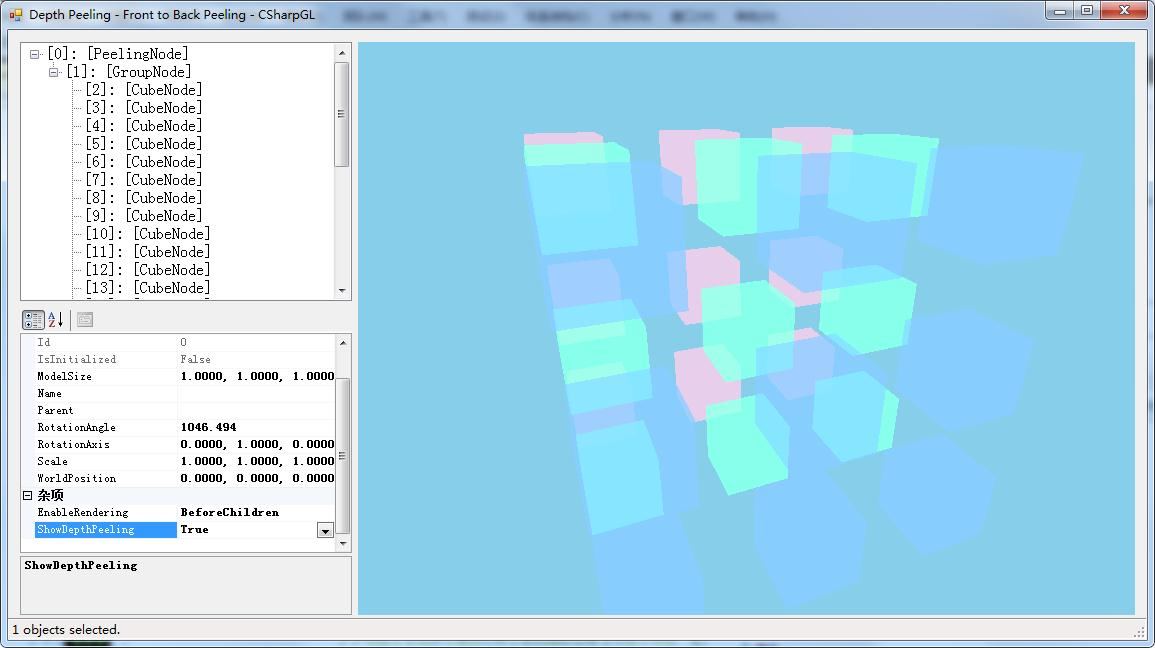
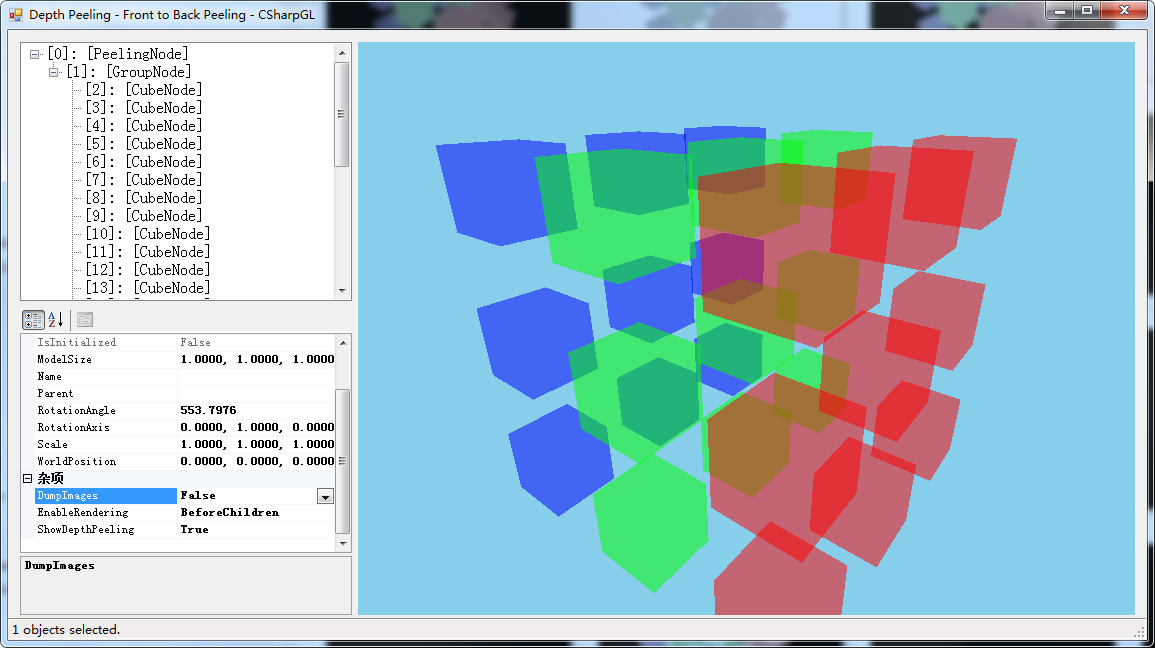
update readme.

diff --git a/Demos/FrontToBackPeeling/PeelingNode.cs b/Demos/FrontToBackPeeling/PeelingNode.cs
@@ -12,8 +12,9 @@ namespace FrontToBackPeeling
         private int height;
         private GroupNode cubeNodeGroup;
         private QuadNode fullscreenQuad;
-        private DepthMaskSwitch depthMask = new DepthMaskSwitch(false);
-        private const int NUM_PASSES = 6;
+        private DepthMaskSwitch depthMask = new DepthMaskSwitch(writable: false);
+        private DepthTestSwitch depthTest = new DepthTestSwitch(enableCapacity: false);
+        private const int NUM_PASSES = 5;
         private bool bUseOQ = false;
 
         public bool ShowDepthPeeling { get; set; }
@@ -64,10 +65,14 @@ namespace FrontToBackPeeling
             glBlendFuncSeparate = GL.Instance.GetDelegateFor("glBlendFuncSeparate", GLDelegates.typeof_void_uint_uint_uint_uint) as GLDelegates.void_uint_uint_uint_uint;
         }
 
-        private BlendSwitch blend = new BlendSwitch(BlendEquationMode.Add, BlendSrcFactor.SrcAlpha, BlendDestFactor.OneMinusSrcAlpha, BlendSrcFactor.One, BlendDestFactor.One);
+        private BlendSwitch blend = new BlendSwitch(BlendEquationMode.Add, BlendSrcFactor.DstAlpha, BlendDestFactor.One, BlendSrcFactor.Zero, BlendDestFactor.OneMinusSrcAlpha);
+        //private BlendSwitch blend = new BlendSwitch(BlendEquationMode.Add, BlendSrcFactor.SrcAlpha, BlendDestFactor.OneMinusSrcAlpha, BlendSrcFactor.One, BlendDestFactor.One);
 
         private bool dumpImages = true;
 
+        /// <summary>
+        /// Dump images once.
+        /// </summary>
         public bool DumpImages
         {
             get { return dumpImages; }
@@ -92,6 +97,8 @@ namespace FrontToBackPeeling
 
             if (this.ShowDepthPeeling)
             {
+                //var clearColor = new float[4];
+                //GL.Instance.GetFloatv((uint)GetTarget.ColorClearValue, clearColor);
                 {
                     //glBlendEquation(GL.GL_FUNC_ADD);
                     //glBlendFuncSeparate(GL.GL_SRC_ALPHA, GL.GL_ONE_MINUS_SRC_ALPHA, GL.GL_ONE, GL.GL_ONE);
@@ -119,11 +126,11 @@ namespace FrontToBackPeeling
                     // peel.
                     {
                         this.resources.FBOs[currId].Bind();
-                        GL.Instance.ClearColor(0, 0, 0, 1);
+                        GL.Instance.ClearColor(0, 0, 0, 0);
                         GL.Instance.Clear(GL.GL_COLOR_BUFFER_BIT | GL.GL_DEPTH_BUFFER_BIT);
-                        this.depthMask.On();
+                        //this.depthMask.On();
                         //GL.Instance.Enable(GL.GL_BLEND);
-                        this.blend.On();
+                        //this.blend.On();
                         if (bUseOQ)
                         {
                             this.query.BeginQuery(QueryTarget.SamplesPassed);
@@ -134,8 +141,8 @@ namespace FrontToBackPeeling
                             this.query.EndQuery(QueryTarget.SamplesPassed);
                         }
                         //GL.Instance.Disable(GL.GL_BLEND);
-                        this.blend.Off();
-                        this.depthMask.Off();
+                        //this.blend.Off();
+                        //this.depthMask.Off();
                         this.resources.FBOs[currId].Unbind();
                         if (this.DumpImages)
                         {
@@ -145,7 +152,11 @@ namespace FrontToBackPeeling
                     // blend.
                     {
                         this.resources.blenderFBO.Bind();
+                        this.depthTest.On();
+                        this.blend.On();
                         this.DrawFullScreenQuad(arg, QuadNode.RenderMode.Blend, this.resources.colorTextures[currId]);
+                        this.blend.Off();
+                        this.depthTest.Off();
                         this.resources.blenderFBO.Unbind();
                         if (this.DumpImages)
                         {
@@ -160,6 +171,7 @@ namespace FrontToBackPeeling
                     }
                 }
                 // final.
+                //GL.Instance.ClearColor(clearColor[0], clearColor[1], clearColor[2], clearColor[3]);
                 this.DrawFullScreenQuad(arg, QuadNode.RenderMode.Final, this.resources.blenderColorTexture);
                 if (this.DumpImages)
                 {

diff --git a/Demos/FrontToBackPeeling/FormMain.cs b/Demos/FrontToBackPeeling/FormMain.cs
@@ -14,6 +14,7 @@ namespace FrontToBackPeeling
     {
         private Scene scene;
         private ActionList actionList;
+        private PeelingNode peelingNode;
 
         public FormMain()
         {
@@ -22,6 +23,15 @@ namespace FrontToBackPeeling
             this.Load += FormMain_Load;
             this.winGLCanvas1.OpenGLDraw += winGLCanvas1_OpenGLDraw;
             this.winGLCanvas1.Resize += winGLCanvas1_Resize;
+            this.winGLCanvas1.KeyPress += winGLCanvas1_KeyPress;
+        }
+
+        void winGLCanvas1_KeyPress(object sender, KeyPressEventArgs e)
+        {
+            if (e.KeyChar == 't')
+            {
+                this.timer1.Enabled = !this.timer1.Enabled;
+            }
         }
 
         private void FormMain_Load(object sender, EventArgs e)
@@ -72,8 +82,8 @@ namespace FrontToBackPeeling
 
         private SceneNodeBase GetTree(Scene scene)
         {
-            var node = new PeelingNode(scene);
-            return node;
+            this.peelingNode = new PeelingNode(scene);
+            return this.peelingNode;
         }
 
         private void winGLCanvas1_OpenGLDraw(object sender, PaintEventArgs e)

diff --git a/Demos/FrontToBackPeeling/QuadNode.cs b/Demos/FrontToBackPeeling/QuadNode.cs
@@ -26,10 +26,16 @@ namespace FrontToBackPeeling
             set
             {
                 this.tempTexture = value;
-
-                RenderMethod method = this.RenderUnit.Methods[(int)RenderMode.Blend];
-                ShaderProgram program = method.Program;
-                program.SetUniform("tempTexture", value);
+                {
+                    RenderMethod method = this.RenderUnit.Methods[(int)RenderMode.Blend];
+                    ShaderProgram program = method.Program;
+                    program.SetUniform("tempTexture", value);
+                }
+                {
+                    RenderMethod method = this.RenderUnit.Methods[(int)RenderMode.Final];
+                    ShaderProgram program = method.Program;
+                    program.SetUniform("colorTexture", value);
+                }
             }
         }
 

diff --git a/Demos/FrontToBackPeeling/readme.md b/Demos/FrontToBackPeeling/readme.md
@@ -1,2 +1,36 @@
 # Front To Back Peeling.
+## The final result.
 ![FrontToBackPeeling](https://github.com/bitzhuwei/CSharpGL/blob/master/Demos/FrontToBackPeeling/FrontToBackPeeling.png?raw=true)
+## How front to back peeling works?
+After initialization(0.init-blenderTexture):
+![FrontToBackPeeling.init](https://github.com/bitzhuwei/CSharpGL/blob/master/Demos/FrontToBackPeeling/how/0.init-blenderTexture.png?raw=true)
+Peeling result for the 1st time(1.layers[1].0.peel-textures[1]):
+![FrontToBackPeeling.peel](https://github.com/bitzhuwei/CSharpGL/blob/master/Demos/FrontToBackPeeling/how/1.layers[1].0.peel-textures[1].png?raw=true)
+Blending result for the 1 st time(1.layers[1].1.blend-blenderTexture):
+![FrontToBackPeeling.blend](https://github.com/bitzhuwei/CSharpGL/blob/master/Demos/FrontToBackPeeling/how/1.layers[1].1.blend-blenderTexture.png?raw=true)
+Peeling result for the 2nd time(1.layers[2].0.peel-textures[1]):
+![FrontToBackPeeling.peel](https://github.com/bitzhuwei/CSharpGL/blob/master/Demos/FrontToBackPeeling/how/1.layers[2].0.peel-textures[1].png?raw=true)
+Blending result for the 2nd time(1.layers[2].1.blend-blenderTexture):
+![FrontToBackPeeling.blend](https://github.com/bitzhuwei/CSharpGL/blob/master/Demos/FrontToBackPeeling/how/1.layers[2].1.blend-blenderTexture.png?raw=true)
+Peeling result for the 3rd time(1.layers[3].0.peel-textures[1]):
+![FrontToBackPeeling.peel](https://github.com/bitzhuwei/CSharpGL/blob/master/Demos/FrontToBackPeeling/how/1.layers[3].0.peel-textures[1].png?raw=true)
+Blending result for the 3rd time(1.layers[3].1.blend-blenderTexture):
+![FrontToBackPeeling.blend](https://github.com/bitzhuwei/CSharpGL/blob/master/Demos/FrontToBackPeeling/how/1.layers[3].1.blend-blenderTexture.png?raw=true)
+Peeling result for the 4th time(1.layers[4].0.peel-textures[1]):
+![FrontToBackPeeling.peel](https://github.com/bitzhuwei/CSharpGL/blob/master/Demos/FrontToBackPeeling/how/1.layers[4].0.peel-textures[1].png?raw=true)
+Blending result for the 4th time(1.layers[4].1.blend-blenderTexture):
+![FrontToBackPeeling.blend](https://github.com/bitzhuwei/CSharpGL/blob/master/Demos/FrontToBackPeeling/how/1.layers[4].1.blend-blenderTexture.png?raw=true)
+Peeling result for the 5th time(1.layers[5].0.peel-textures[1]):
+![FrontToBackPeeling.peel](https://github.com/bitzhuwei/CSharpGL/blob/master/Demos/FrontToBackPeeling/how/1.layers[5].0.peel-textures[1].png?raw=true)
+Blending result for the 5th time(1.layers[5].1.blend-blenderTexture):
+![FrontToBackPeeling.blend](https://github.com/bitzhuwei/CSharpGL/blob/master/Demos/FrontToBackPeeling/how/1.layers[5].1.blend-blenderTexture.png?raw=true)
+Peeling result for the 6th time(1.layers[6].0.peel-textures[1]):
+![FrontToBackPeeling.peel](https://github.com/bitzhuwei/CSharpGL/blob/master/Demos/FrontToBackPeeling/how/1.layers[6].0.peel-textures[1].png?raw=true)
+Blending result for the 6th time(1.layers[6].1.blend-blenderTexture):
+![FrontToBackPeeling.blend](https://github.com/bitzhuwei/CSharpGL/blob/master/Demos/FrontToBackPeeling/how/1.layers[6].1.blend-blenderTexture.png?raw=true)
+Peeling result for the 6th time(1.layers[7].0.peel-textures[1]):
+![FrontToBackPeeling.peel](https://github.com/bitzhuwei/CSharpGL/blob/master/Demos/FrontToBackPeeling/how/1.layers[7].0.peel-textures[1].png?raw=true)
+Blending result for the 6th time(1.layers[7].1.blend-blenderTexture):
+![FrontToBackPeeling.blend](https://github.com/bitzhuwei/CSharpGL/blob/master/Demos/FrontToBackPeeling/how/1.layers[7].1.blend-blenderTexture.png?raw=true)
+Final blending result(2.final-blenderTexture):
+![FrontToBackPeeling.final](https://github.com/bitzhuwei/CSharpGL/blob/master/Demos/FrontToBackPeeling/how/2.final-blenderTexture.png?raw=true)
